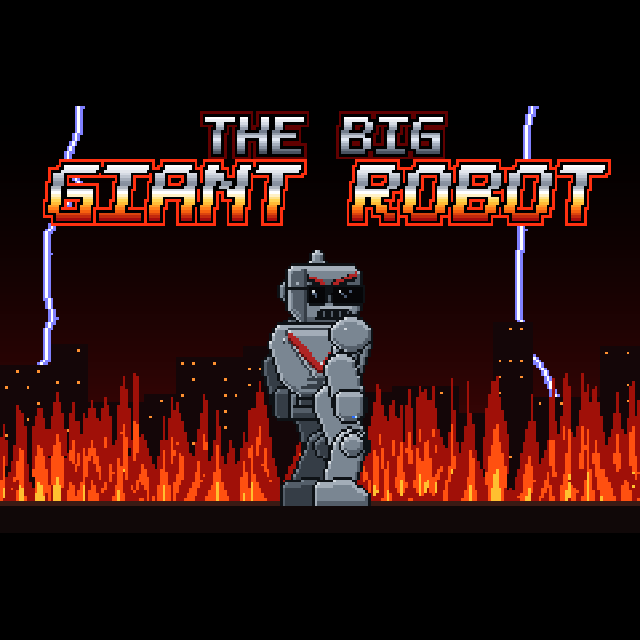
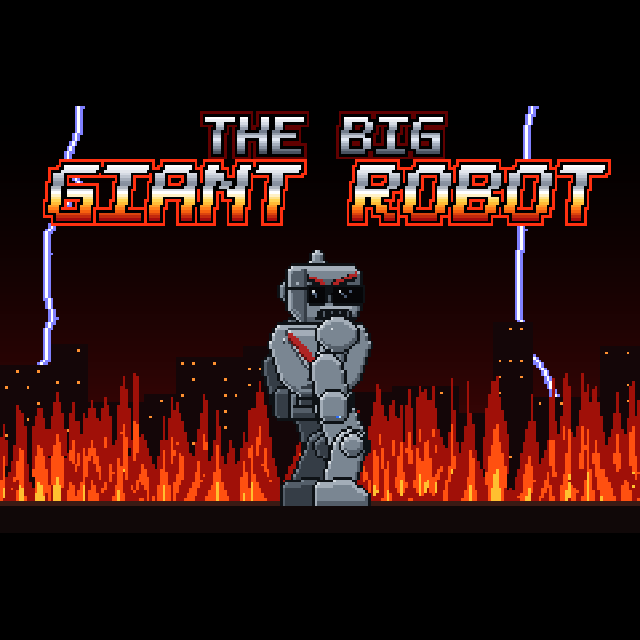
v0.1.5 art: the near arm hangs further back
The near shoulder sits further back on the body and the hand rests at his
side instead of out in front, in the standing and walking poses.

Changed region(s): [[0.4688, 0.4688, 0.5938, 0.6875]]

diff --git a/tools/make_art.py b/tools/make_art.py
@@ -434,11 +434,11 @@ def r_head(cv, hx, hy, eyes):
 
 ROBOT_POSES = [
     # name, dy, lean, front ankle, back ankle, front hand, back hand, palm, head dy, eyes
-    ("stand", 0, 0, (37, 89), (25, 89), (42, 58), (19, 57), 0, 0, "on"),
+    ("stand", 0, 0, (37, 89), (25, 89), (36, 58), (19, 57), 0, 0, "on"),
     ("walk1", 2, 4, (49, 89), (13, 89), (10, 50), (38, 57), 0, 0, "on"),
-    ("walk2", 0, 1, (35, 89), (31, 77), (40, 59), (22, 58), 0, 0, "on"),
-    ("walk3", 2, -3, (16, 89), (46, 89), (54, 53), (2, 50), 0, 0, "on"),
-    ("walk4", 0, 0, (37, 77), (27, 89), (44, 59), (17, 58), 0, 0, "on"),
+    ("walk2", 0, 1, (35, 89), (31, 77), (33, 59), (22, 58), 0, 0, "on"),
+    ("walk3", 2, -3, (16, 89), (46, 89), (49, 54), (2, 50), 0, 0, "on"),
+    ("walk4", 0, 0, (37, 77), (27, 89), (38, 59), (17, 58), 0, 0, "on"),
     ("shoot", 0, 1, (37, 89), (25, 89), (57, 44), (53, 41), 1, 0, "on"),
     ("shoot1", 2, 4, (49, 89), (13, 89), (57, 46), (53, 43), 1, 0, "on"),
     ("shoot2", 0, 2, (35, 89), (31, 77), (57, 44), (53, 41), 1, 0, "on"),
@@ -463,8 +463,8 @@ def robot_frame(pose):
     fhip, bhip = (35 + ln * 0.5, hipy), (27 + ln * 0.5, hipy)
     # shoulders follow their arm: they roll back when the arm swings back, forward when it swings forward
     roll = lambda hx, rest: max(-8, min(4, (hx - rest) * 0.4))
-    fr, br = roll(fh[0], 42), roll(bh[0], 19)
-    fsh = (42 + ln + fr, 32 + dy + abs(fr) * 0.2)
+    fr, br = roll(fh[0], 36), roll(bh[0], 19)
+    fsh = (37 + ln + fr, 32 + dy + abs(fr) * 0.2)
     bsh = (21 + ln + br, 32 + dy + abs(br) * 0.2)
     r_leg(cv, bhip, bf, BACK)
     r_arm(cv, bsh, bh, BACK, palm)
